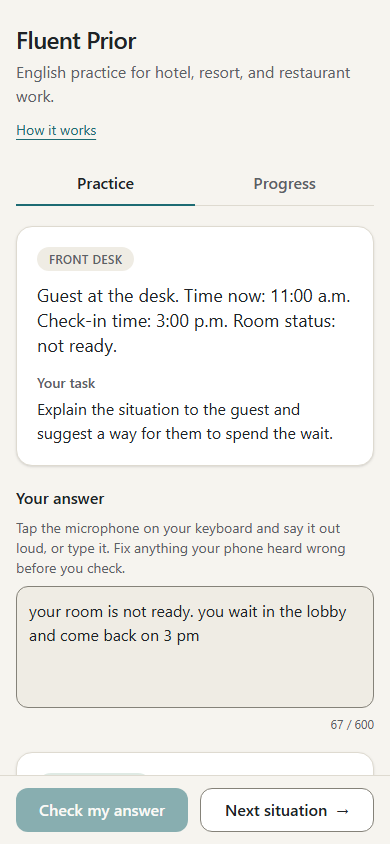
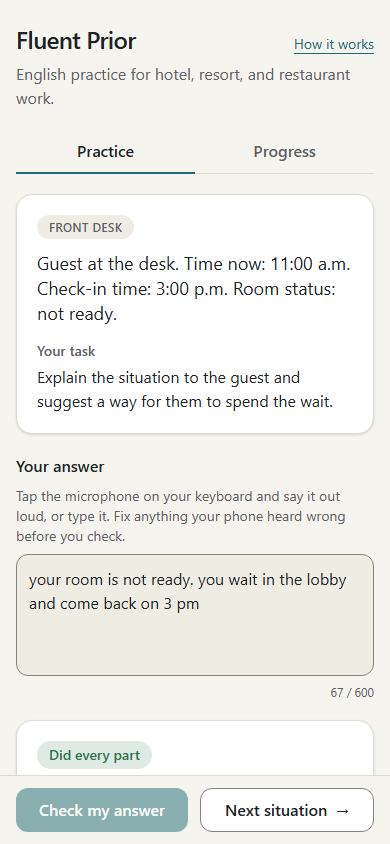
Re-record the demo and screenshots with every fix in, and a 1.7 MB GIF
The media now shows the shipped header ("How it works" beside the title on a phone),
the body-size description, and the new progress copy, each graded by the real 120b
grader on localhost. The hero GIF went from 3.5 MB to 1.69 MB: 8 fps, 320px wide, a
48-color palette without dithering, with most of the grading wait cut. The phone
screenshot's alt text now says what it shows: a checked answer with its grade starting
below it.

Verify: viewed each screenshot and a frame of the GIF; text is legible and the "Did
every part" badge keeps its green. npm run verify and e2e unchanged since 0f21770.

Q: Why turn dithering off to shrink the GIF?
A: Dithering scatters noise into flat areas, and the noise changes every frame, so each
frame differs from the last almost everywhere and compresses badly. A flat UI has few
real colors, so 48 without dithering looks the same and only the changed rectangle is
stored per frame.

Q: Why 48 colors and not 32, which was also under 1.7 MB?
A: At 32 the green of the "Did every part" badge got merged into gray. The badge is how
the grade reads at a glance, so it was worth the extra colors, paid for with 8 fps
instead of 10.

Q: The GIF and the screenshots show different tone grades for the same answer. Is that a
bug?
A: No. They're two separate grades of the same sample answer, and the grader isn't
deterministic: one called it neutral, one said it may come across as rude. The eval
measures how often tone agrees with Ky's marking (94% for 120b).

diff --git a/README.md b/README.md
@@ -35,7 +35,7 @@ in. The learner model weighs each answer with that in mind
   <tr>
     <td><img src="docs/media/desktop.png" alt="Desktop: a graded answer" width="420"></td>
     <td><img src="docs/media/tablet.png" alt="Tablet: a graded answer" width="230"></td>
-    <td><img src="docs/media/phone.png" alt="Phone: a graded answer" width="150"></td>
+    <td><img src="docs/media/phone.png" alt="Phone: a checked answer, with its grade starting below it" width="150"></td>
     <td><img src="docs/media/phone-progress.png" alt="Phone: the Progress tab" width="150"></td>
   </tr>
 </table>
